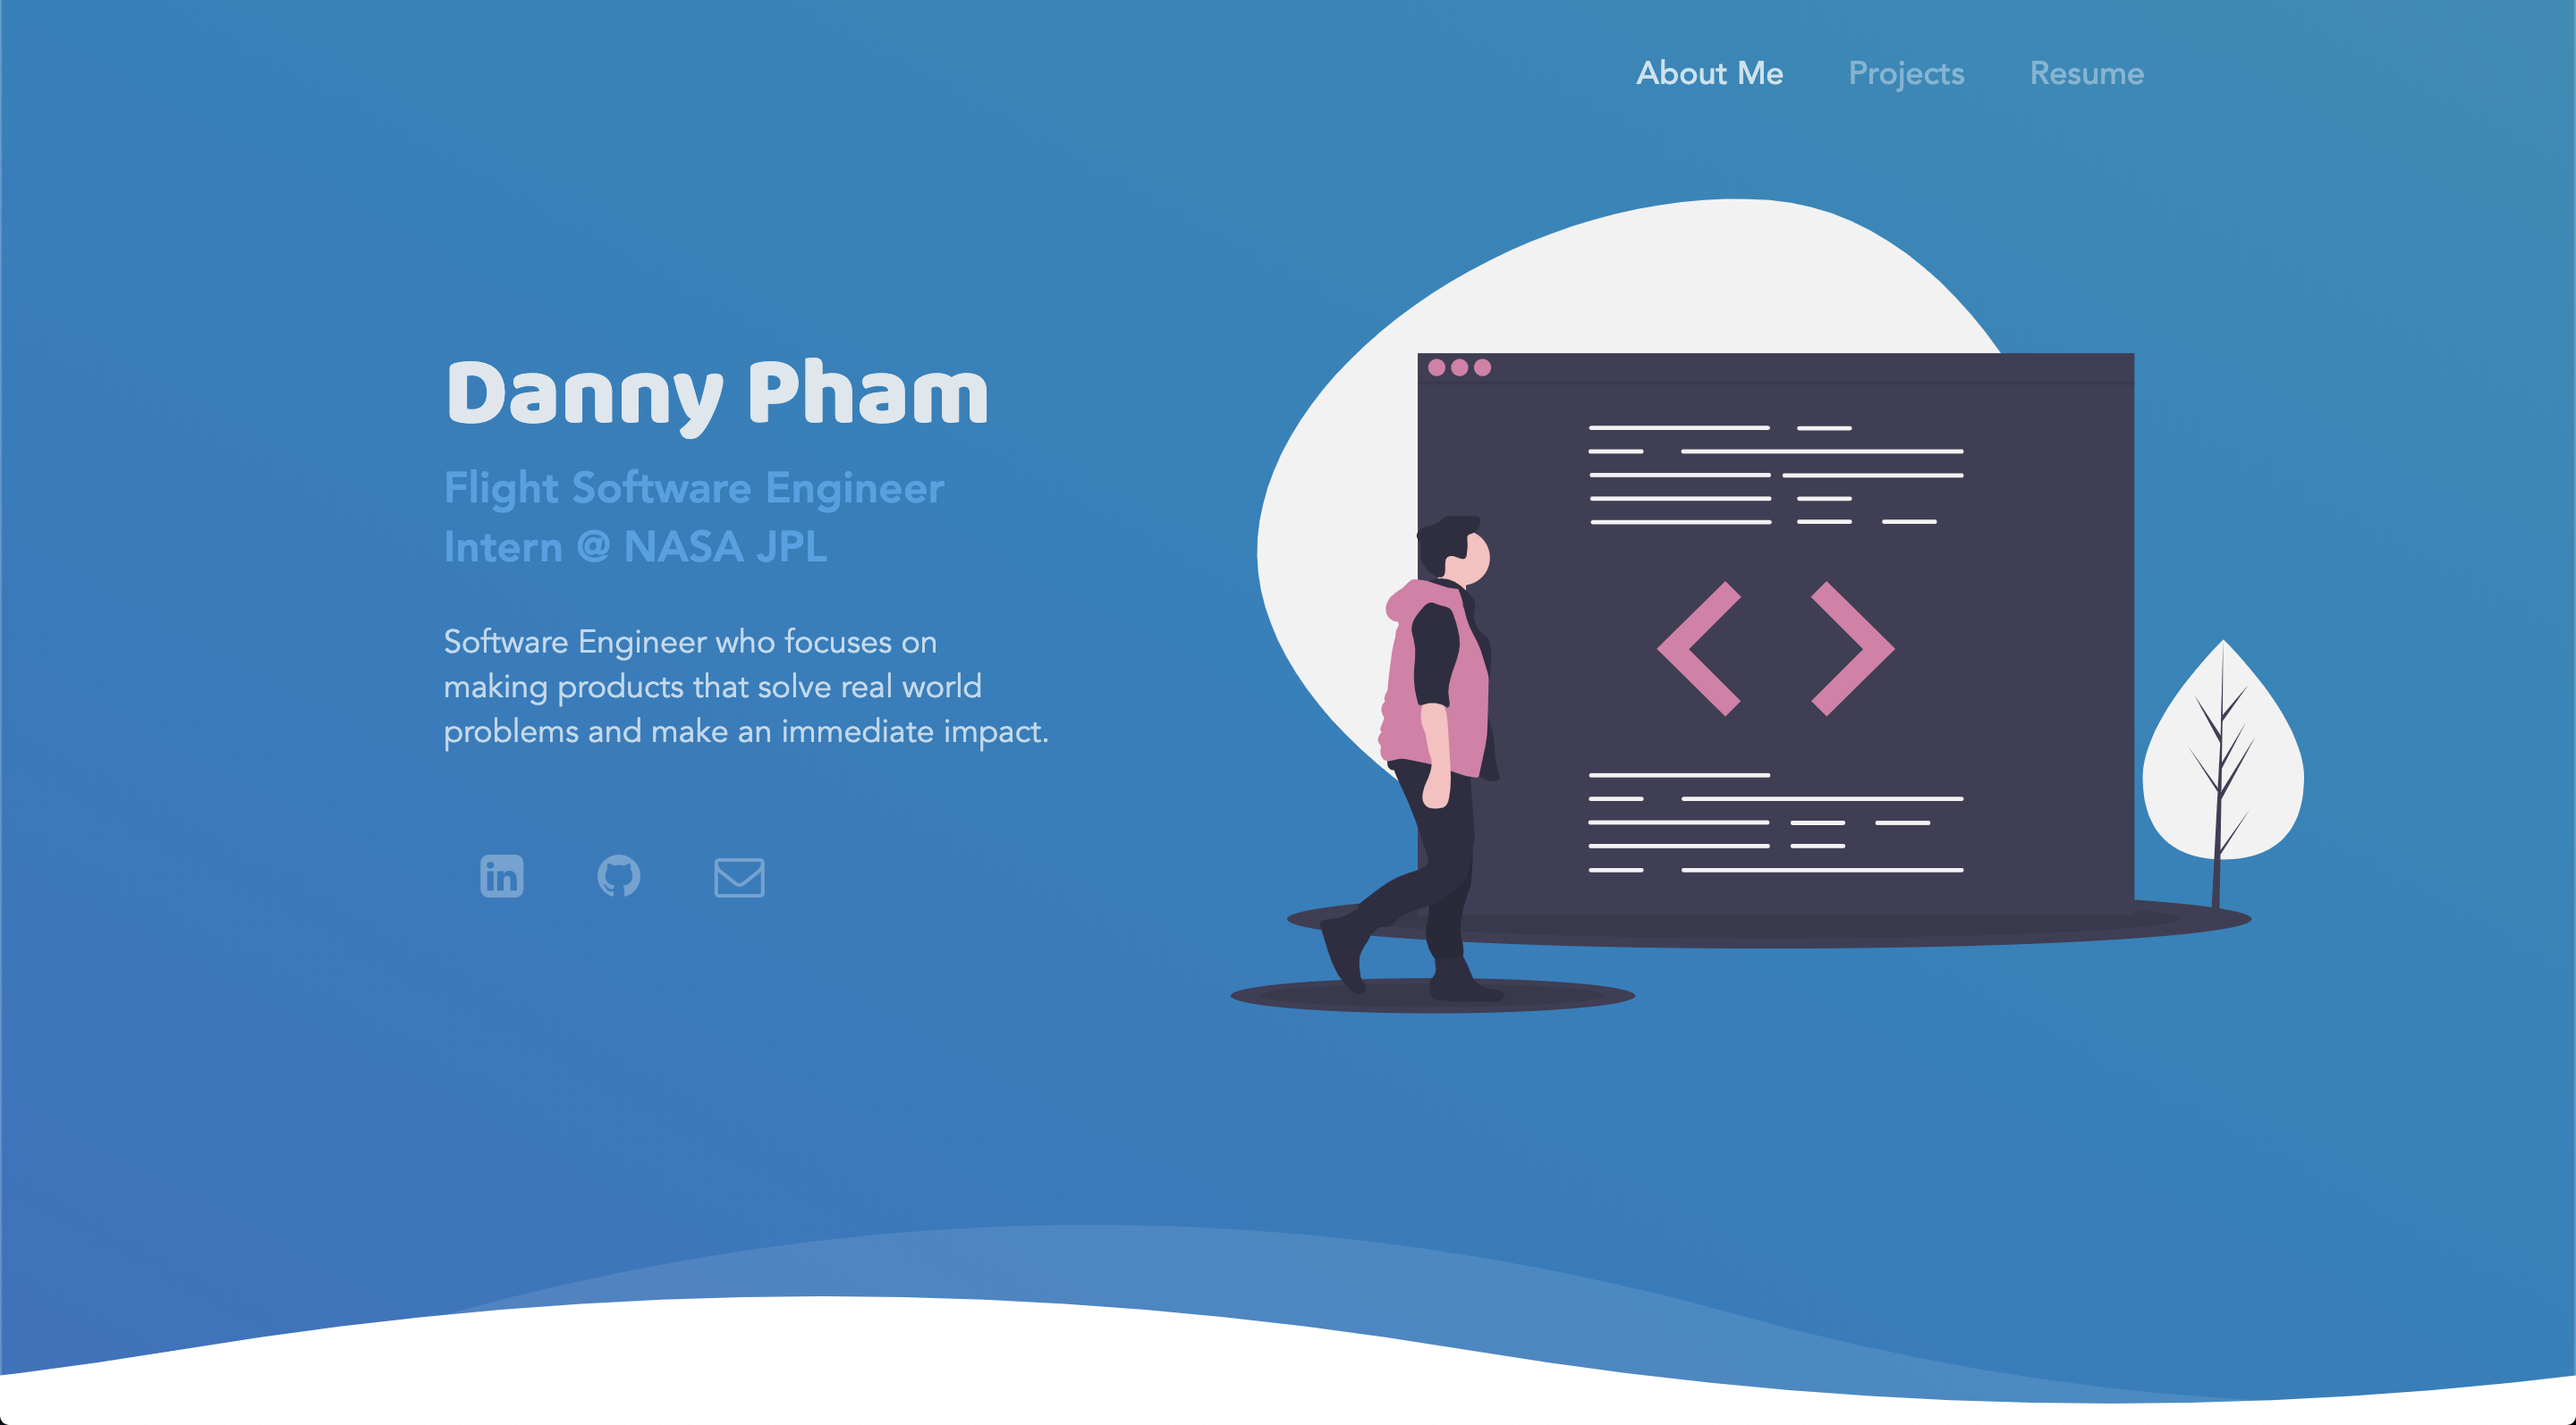
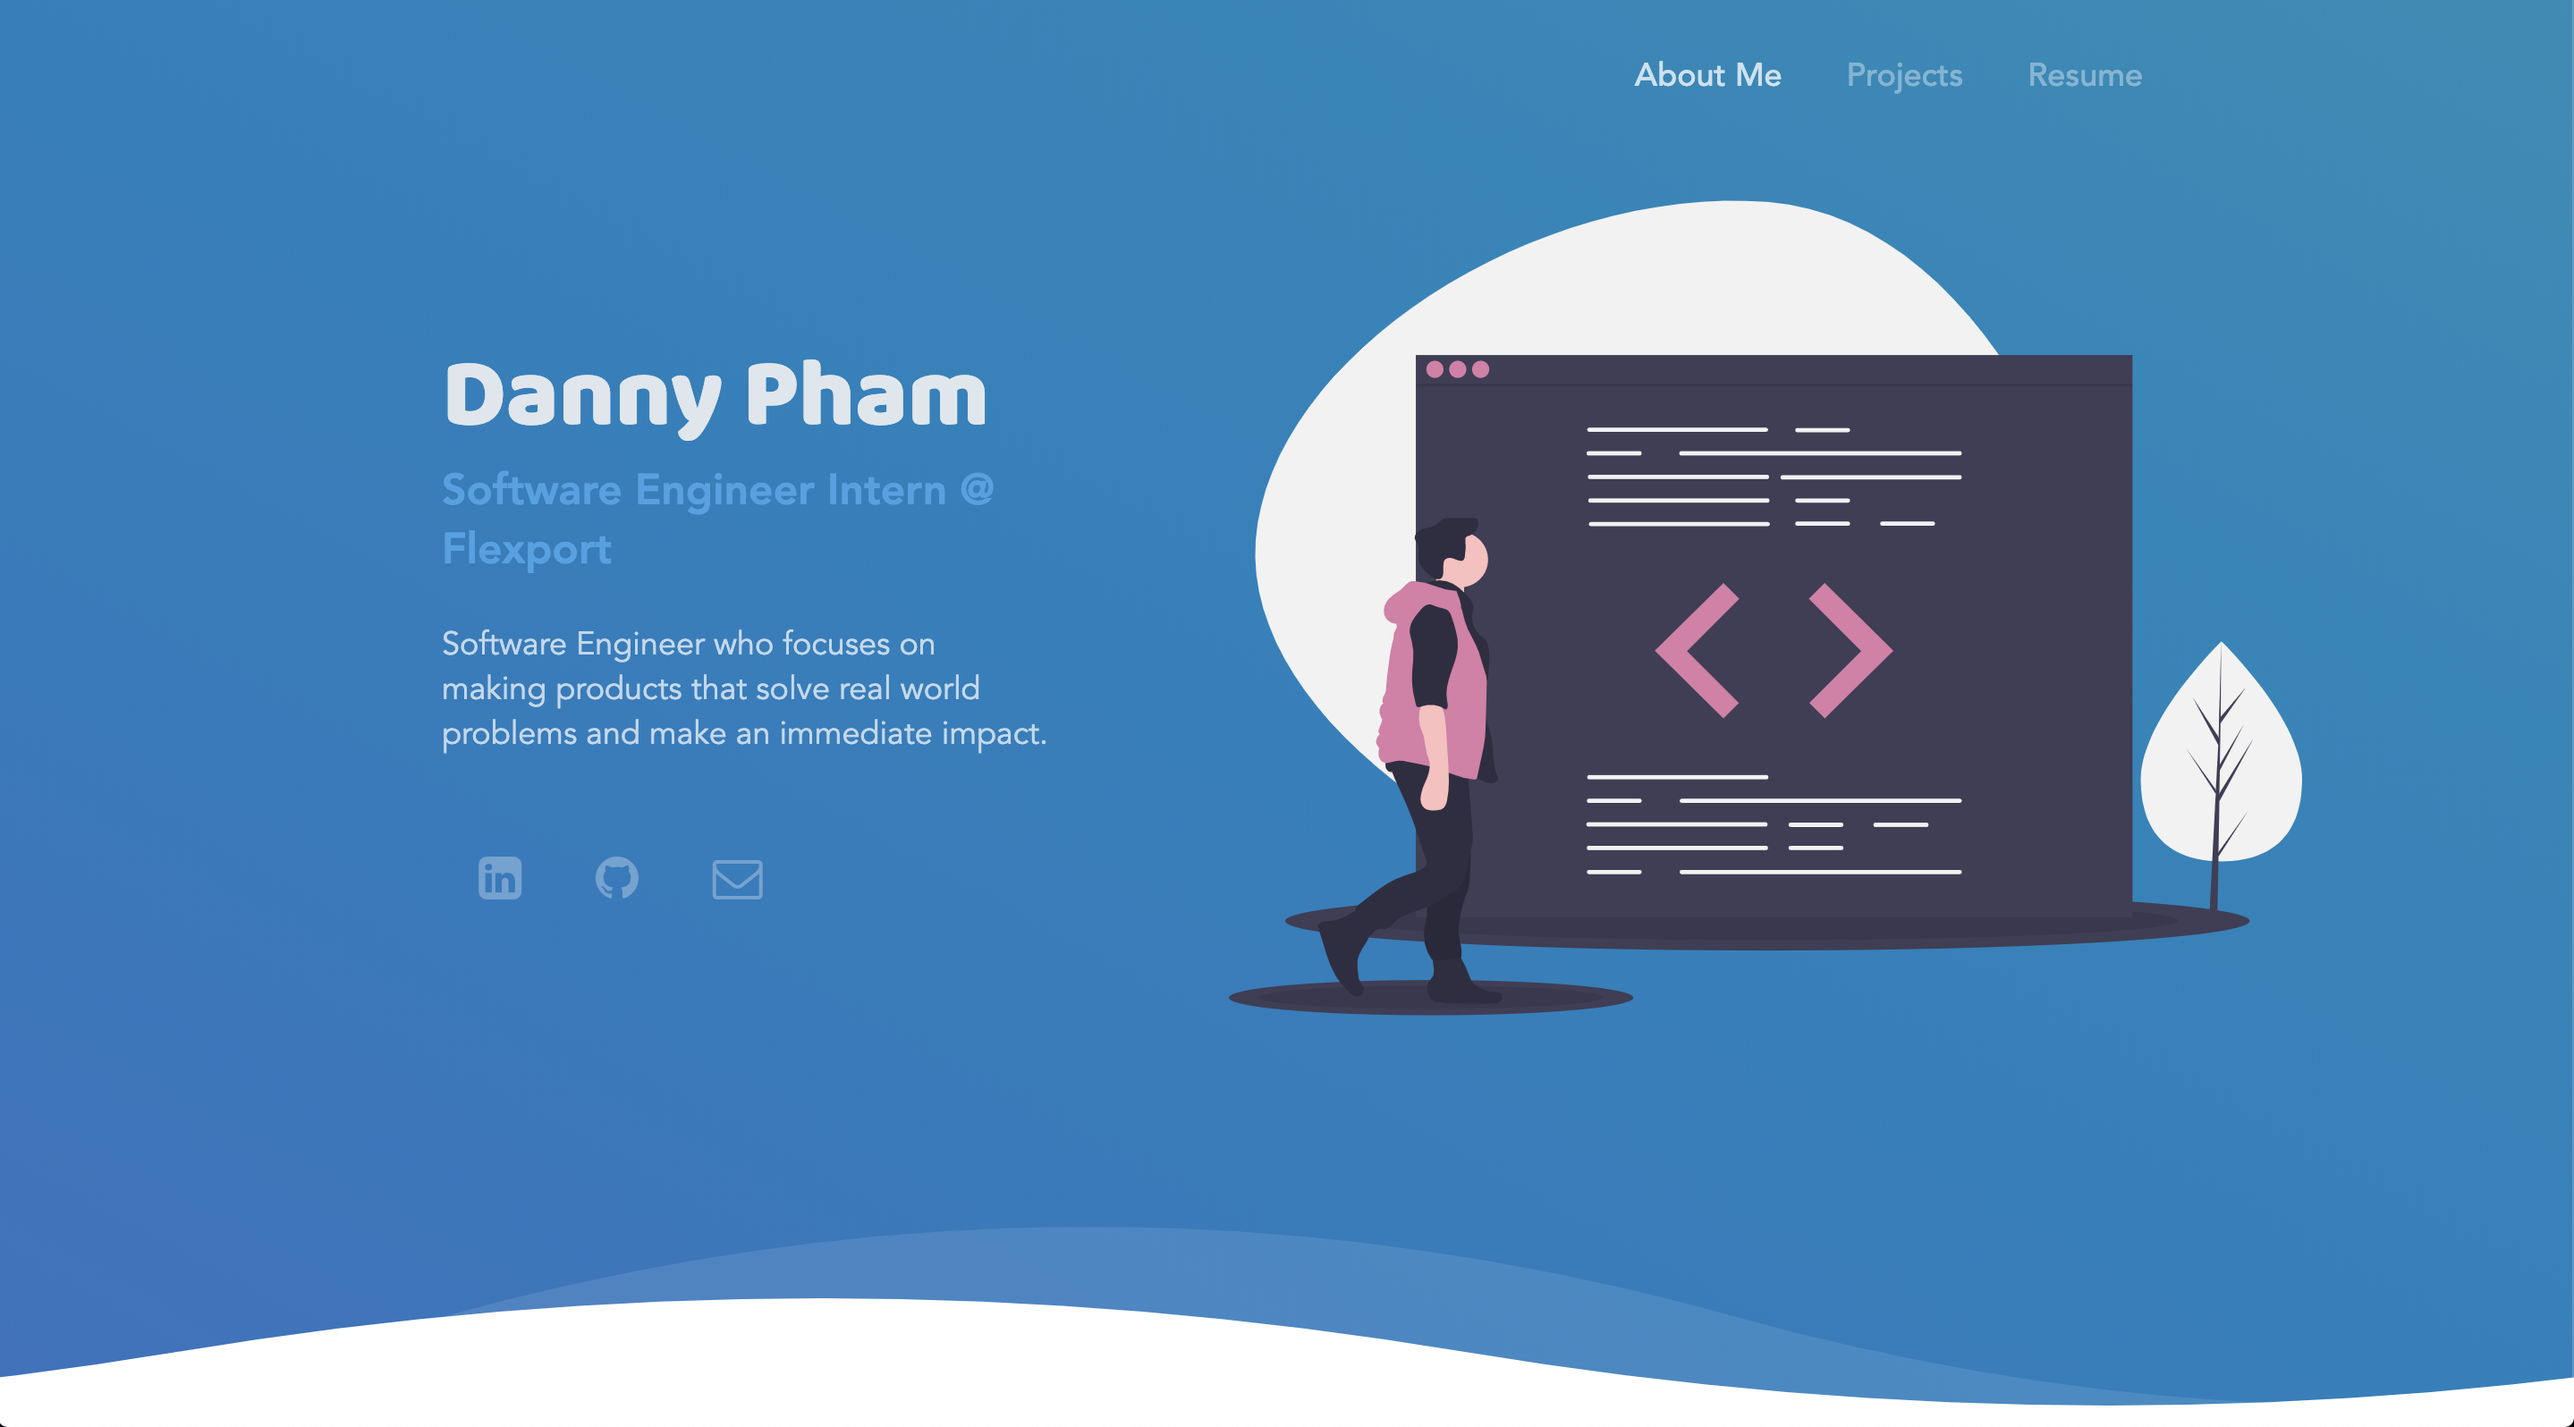
Added new projects, removed old projects, and changed about me.

diff --git a/src/components/sections/projects/ProjectCards/ProjectCards.jsx b/src/components/sections/projects/ProjectCards/ProjectCards.jsx
@@ -7,18 +7,16 @@ import ScrollSpyEffect from 'utils/ScrollSpyEffect';
 
 import decoratorImg from 'images/temp-background.png';
 
-import gradecalculatorImg from 'images/project-gradecalculator.png';
 import autoenrollImg from 'images/project-autoenroll.png';
-import flaskblogImg from 'images/project-flaskblog.png';
 import coderpadImg from 'images/project-coderpad.png';
+import pastebinImg from 'images/project-pastebin.png';
 
 import styles from './ProjectCards.module.scss';
 
 const CARD_IMAGES = {
-  gradecalculator: gradecalculatorImg,
   autoenroll: autoenrollImg,
-  flaskblog: flaskblogImg,
   coderpad: coderpadImg,
+  pastebin: pastebinImg,
 };
 
 const renderCards = (data) => {

diff --git a/src/sass/commons/_colors.scss b/src/sass/commons/_colors.scss
@@ -60,16 +60,24 @@ $icon-card-alt-colors: (
 );
 
 $icon-card-colors: (
-  "1": #1995ad,
-  "2": #426e86,
-  "3": #3a5199,
-  "4": #002c54,
-  // "1": #2f2e33,
-  // "2": #444c5c,
-  // "3": #426e86,
-  // "4": #3a5199,
-  // "5": #002c54,
+  "1": #00743f,
+  "2": #1d65a6,
+  "3": #72a2c0,
+  "4": #192e5b,
+  "5": #f2a104,
 );
+
+// $icon-card-colors: (
+//   "1": #1995ad,
+//   "2": #426e86,
+//   "3": #3a5199,
+//   "4": #002c54,
+//   // "1": #2f2e33,
+//   // "2": #444c5c,
+//   // "3": #426e86,
+//   // "4": #3a5199,
+//   // "5": #002c54,
+// );
 
 // $icon-card-colors: (
 //   "1": #40a1e4,

diff --git a/src/components/sections/index/Hero/Hero.jsx b/src/components/sections/index/Hero/Hero.jsx
@@ -33,7 +33,7 @@ const Hero = () => {
         <Container className={styles.container}>
           <section className={styles.contentWrapper}>
             <h1 className={styles.title}>Danny Pham</h1>
-            <h4 className={styles.subtitle}>Incoming Software Engineer Intern @ Flexport</h4>
+            <h4 className={styles.subtitle}>Software Engineer Intern @ Flexport</h4>
             <p className={styles.text}>
               Software Engineer who focuses on
               making products that solve real world problems

diff --git a/src/components/sections/projects/ProjectHeader/ProjectHeader.jsx b/src/components/sections/projects/ProjectHeader/ProjectHeader.jsx
@@ -41,7 +41,7 @@ const ProjectHeader = () => {
             >
               {'    '}
               {'    '}
-              {'Currently thinking of a new project...            '}
+              {'Thinking of a new project...            '}
               <Typist.Backspace count={30} />
             </Typist>
           </div>
